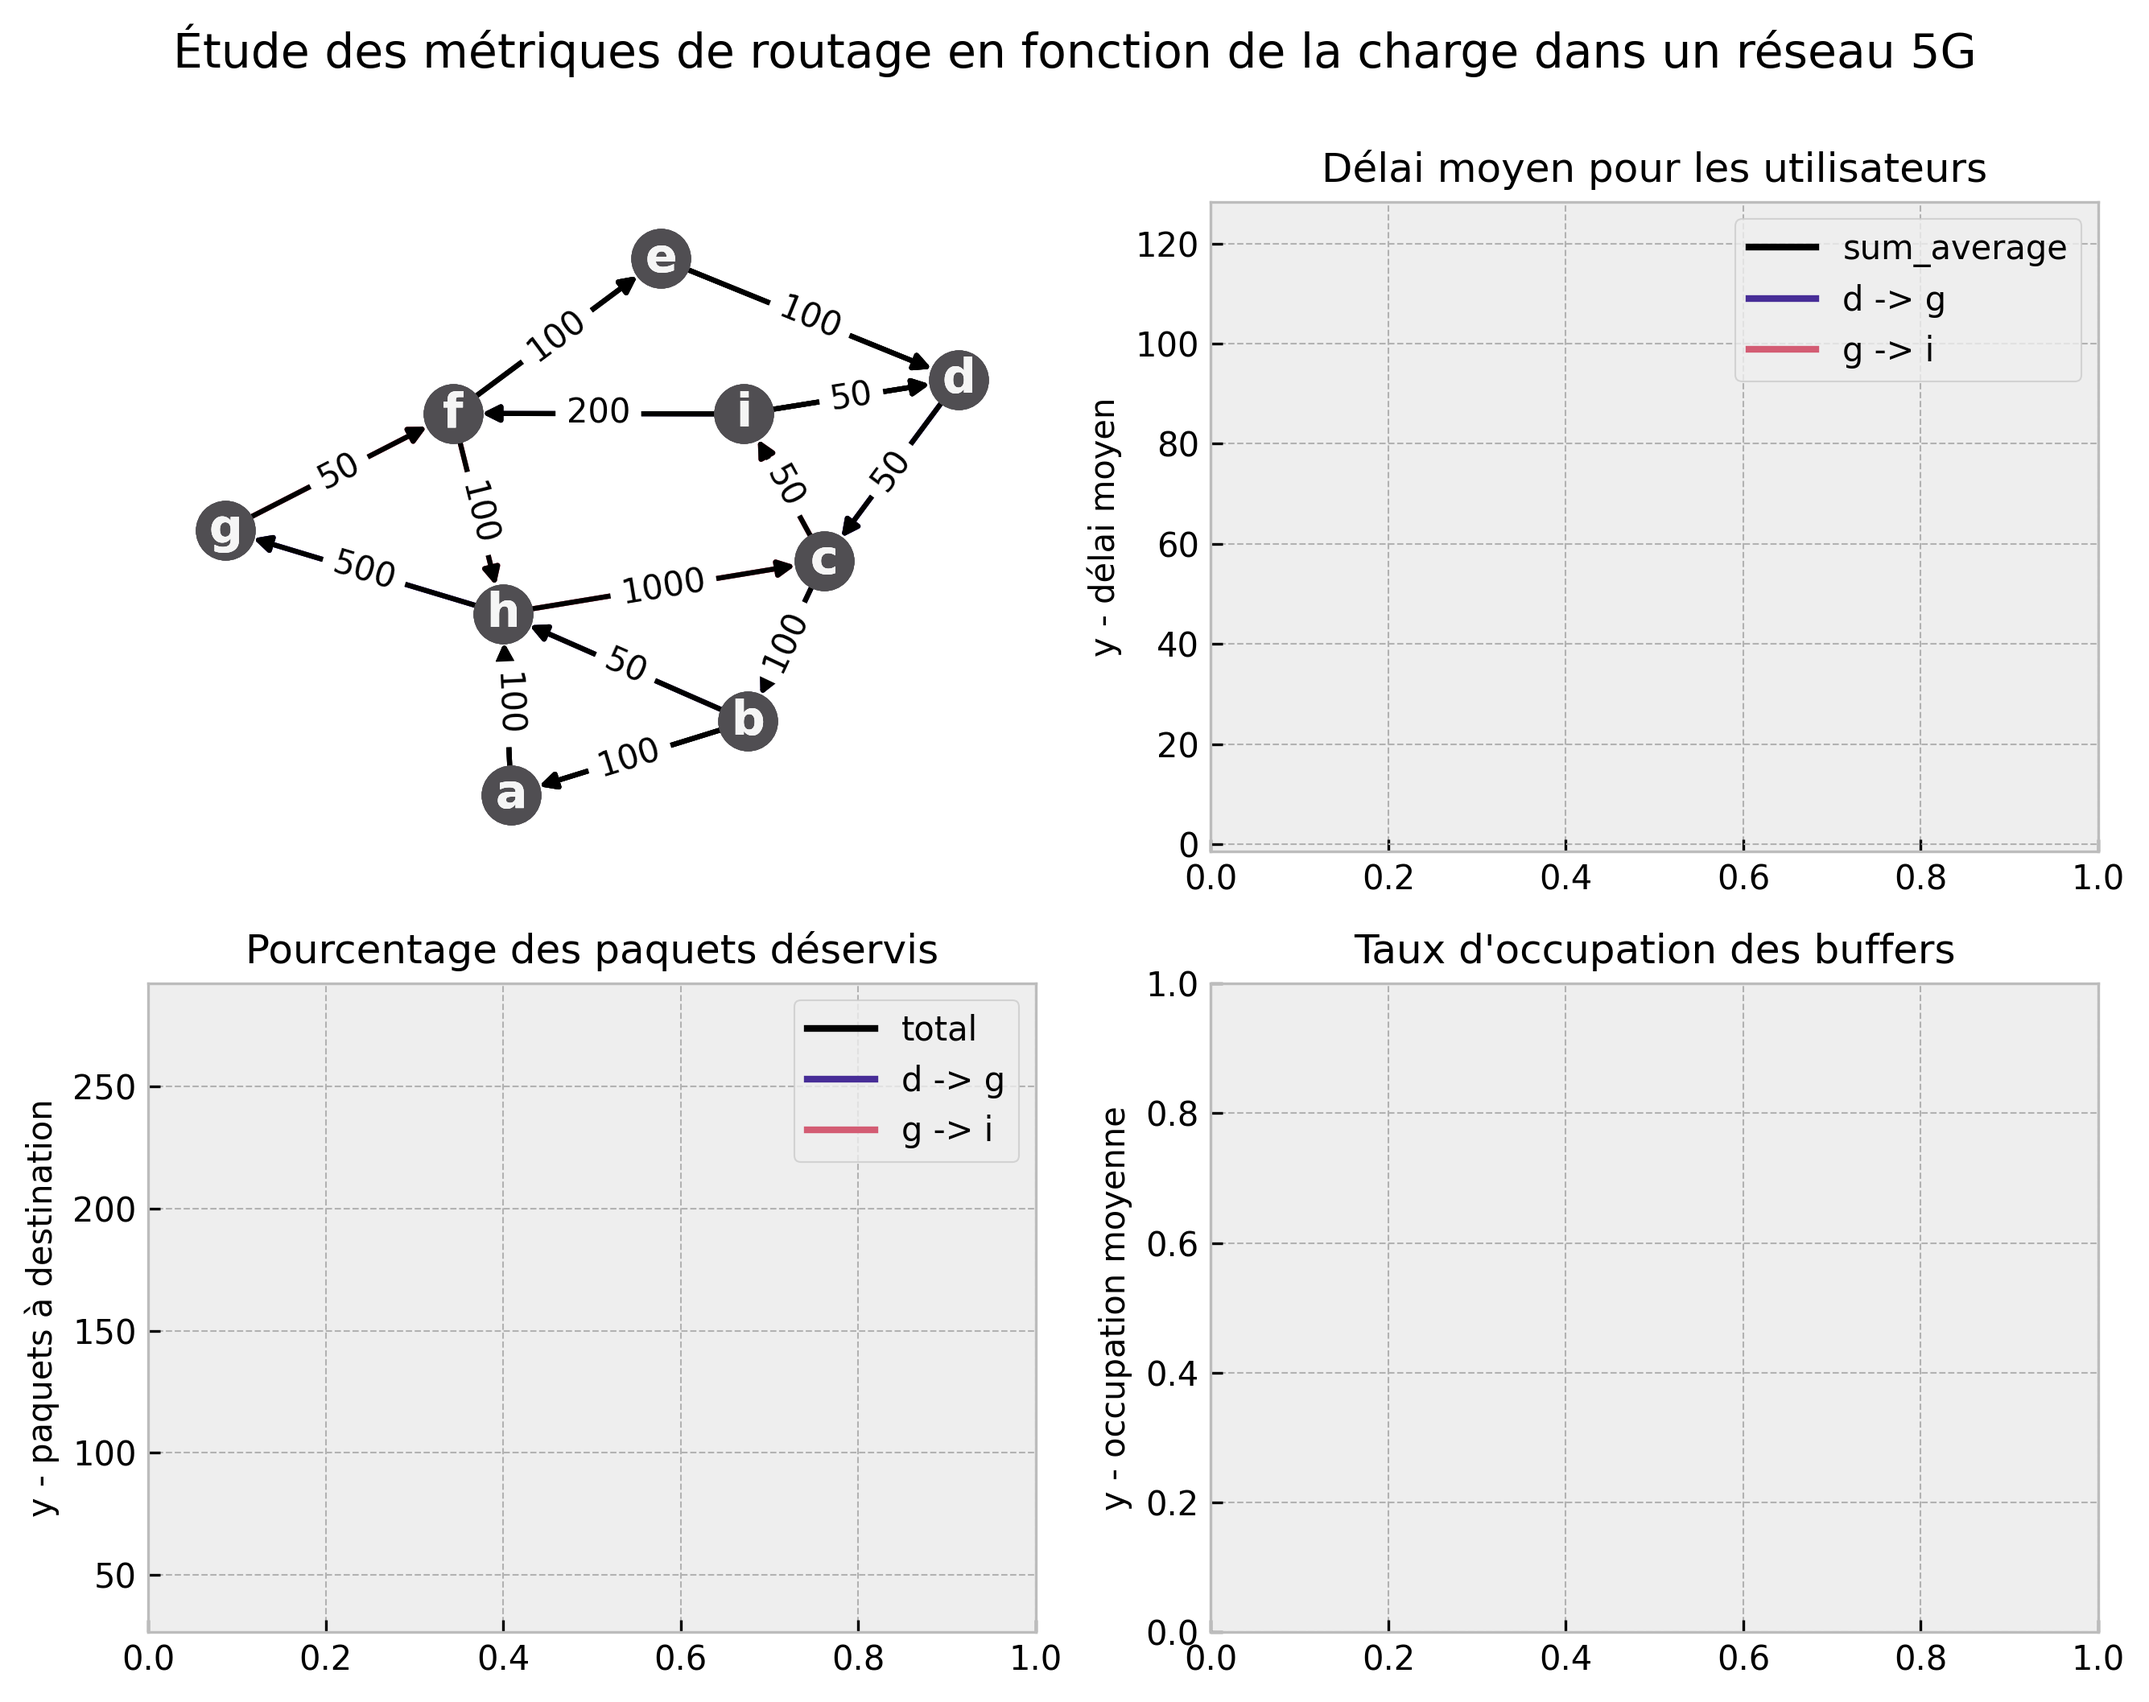
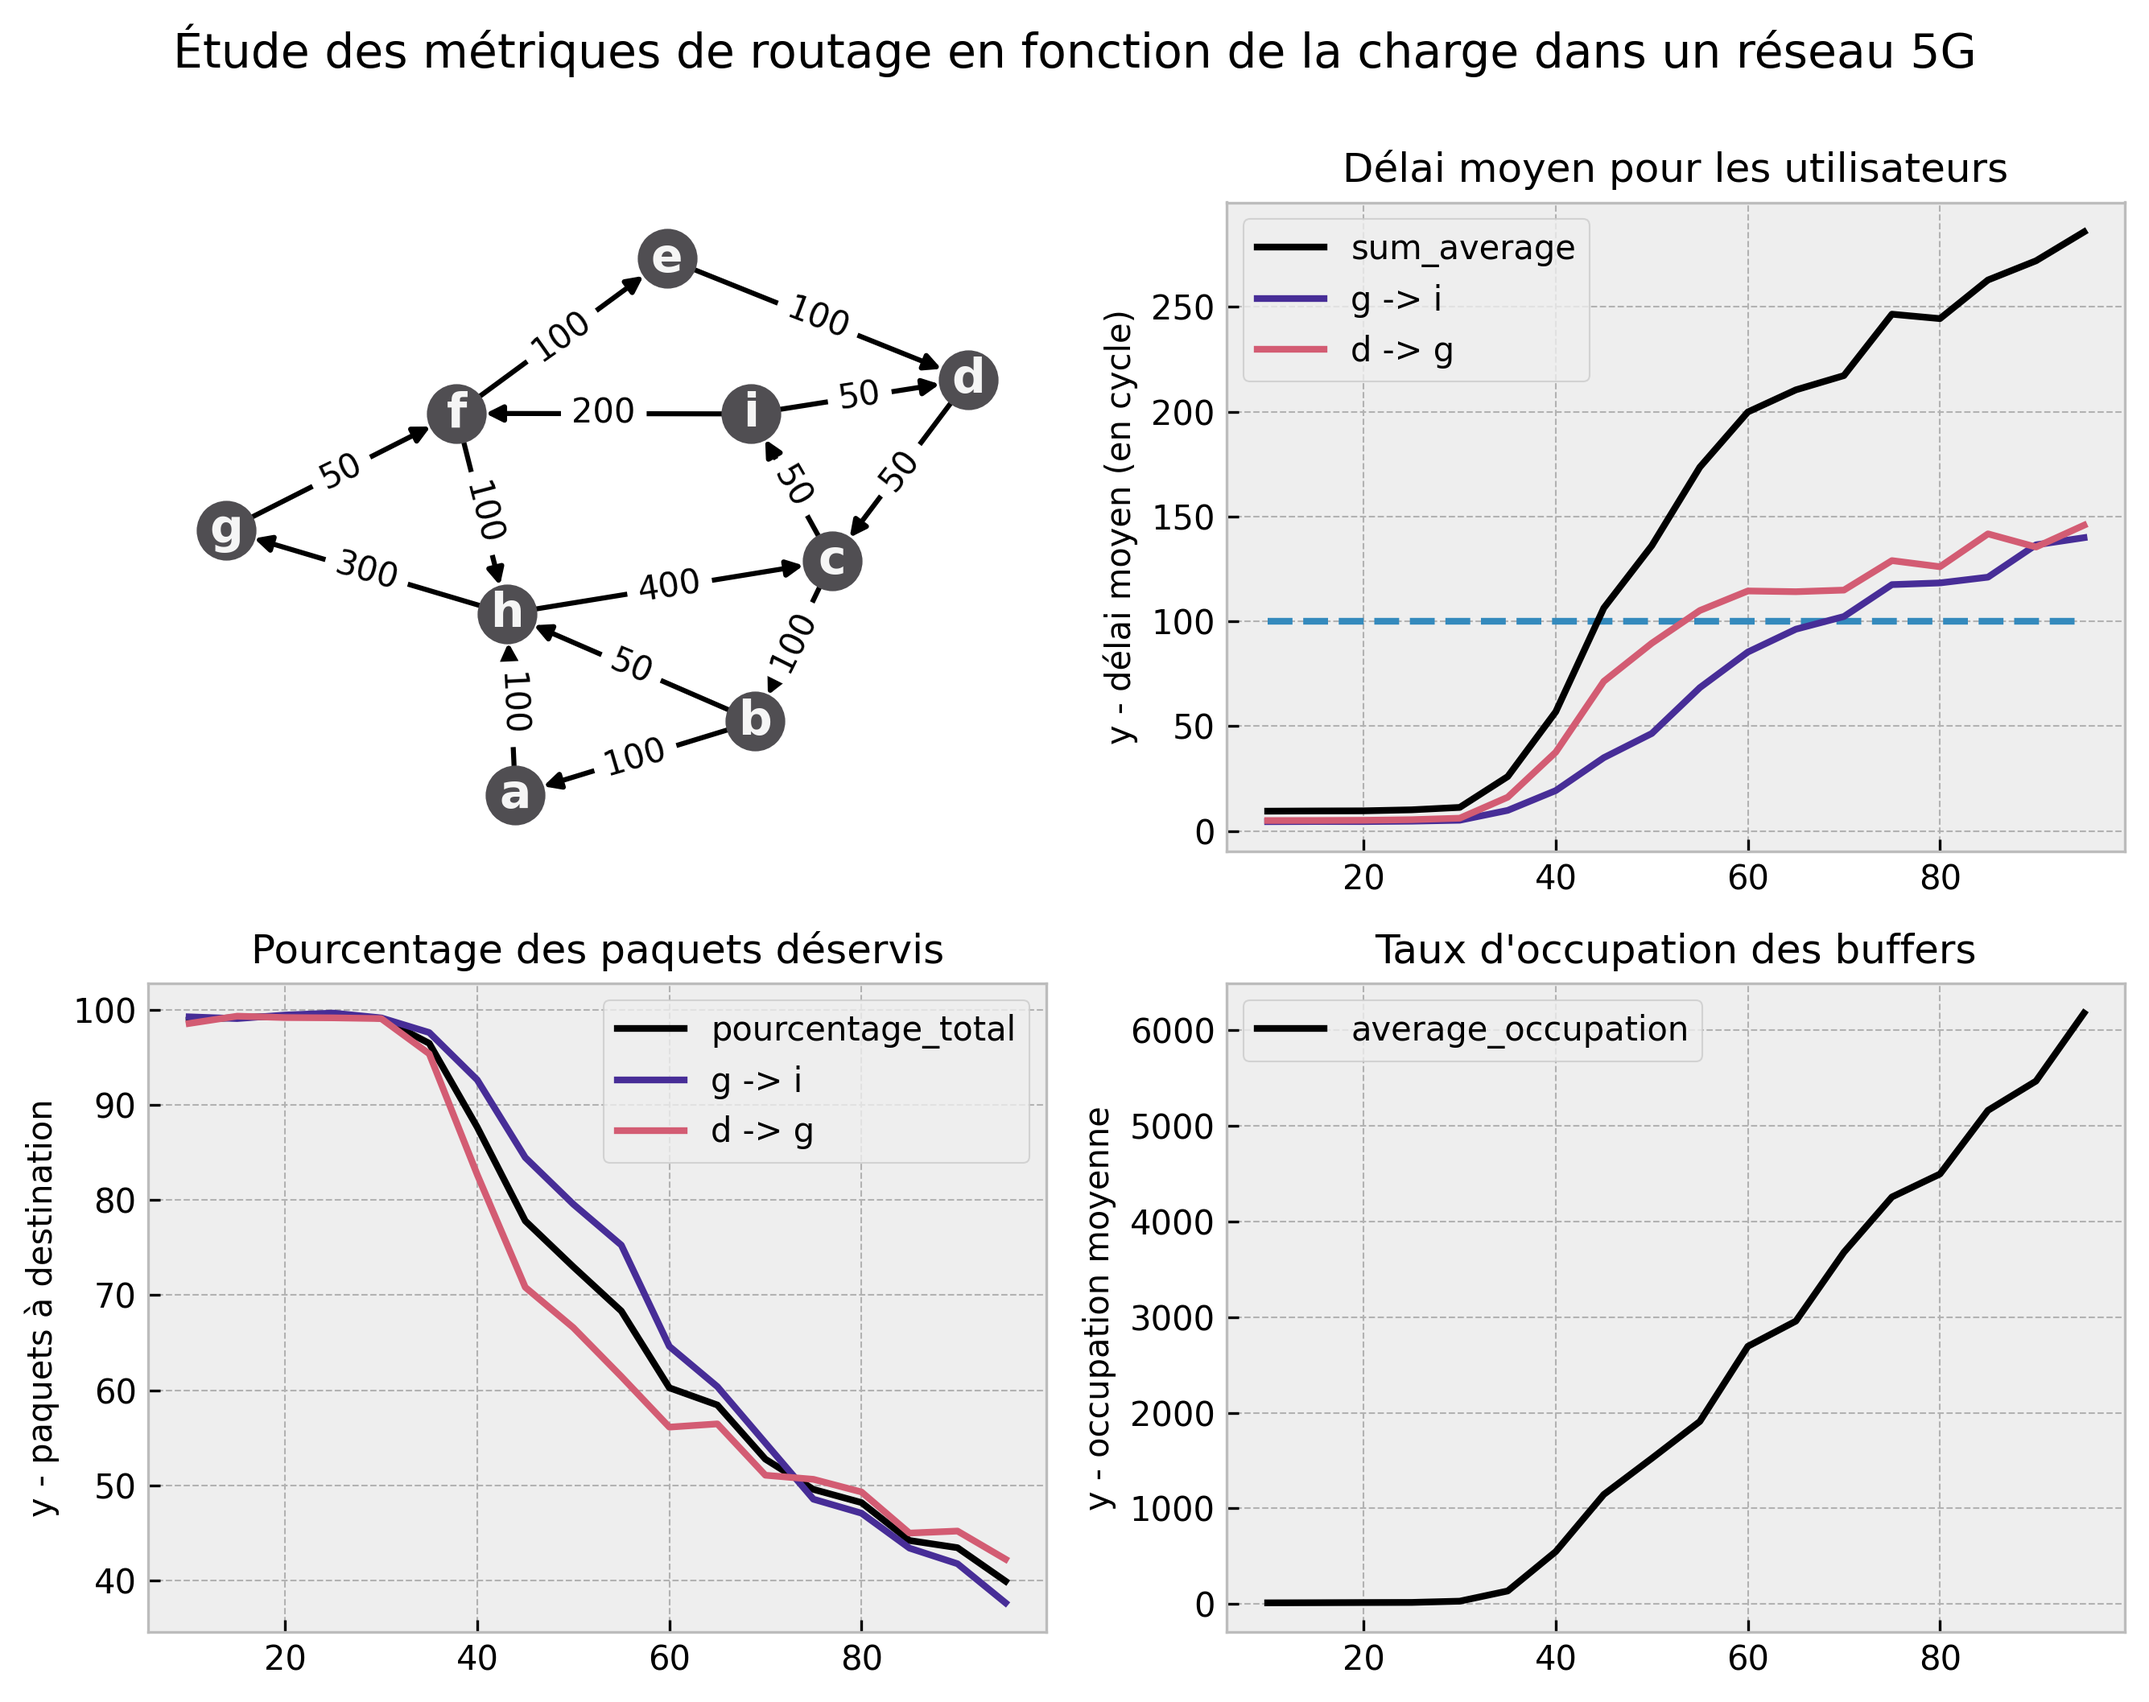
quasi fin de projet

diff --git a/sources/network.py b/sources/network.py
@@ -1,4 +1,3 @@
-import statistics
 import numpy as np
 import pandas as pd
 import cmasher as cmr
@@ -6,6 +5,8 @@ import networkx as nx
 import numpy.random as random
 
 from enum import IntEnum, unique
+
+from sklearn.metrics import average_precision_score
 
 class Graph():
     def __init__(self, filepath: str):
@@ -107,7 +108,7 @@ class Network(Graph):
         self.__setup(self.Protocol(protocol)) 
         
         # creates objects to store the data for statistics
-        self.statistics_data = { e:{ 'package_arrived': 0, 'package_sent': 0, 'total_delay': 0 } for e in self._emitters }
+        self._statistics_tmp = { e:{ 'package_arrived': 0, 'package_sent': 0, 'total_delay': 0 } for e in self._emitters }
         self.statistics_plots = []
         
     def get_nodes(self):
@@ -119,30 +120,36 @@ class Network(Graph):
         return self._nodes[:]
     
     def clear(self):
-        plot_y = { 'average_delay': {}, 'pourcentage_destination': {} }
+        # retrives the data from the simulation to be cleared
+        plot_y = { 'average_delay': {}, 'pourcentage_destination': {}, 'buffer_occupation': {} }
         
+        # 1. average delay
         plot_y['average_delay']['sum_average'] = 0
-        for k, v in self.statistics_data.items():
+        for k, v in self._statistics_tmp.items():
             delay = 0
             if v['package_arrived'] > 0:
                 delay = v['total_delay'] / v['package_arrived']
             plot_y['average_delay'][k] = delay
             plot_y['average_delay']['sum_average'] += delay
-                
+        
+        # 2. pourcentage of packages sent to the destination
         arrived, sent = 0, 0
-        plot_y['pourcentage_destination']['total'] = 0
-        for k, v in self.statistics_data.items():
+        plot_y['pourcentage_destination']['pourcentage_total'] = 0
+        for k, v in self._statistics_tmp.items():
             arrived += v['package_arrived']
             sent += v['package_sent']
             plot_y['pourcentage_destination'][k] = 0
-            if v['package_arrived'] > 0:
-                plot_y['pourcentage_destination'][k] = v['package_sent'] / v['package_arrived'] * 100
+            if v['package_sent'] > 0:
+                plot_y['pourcentage_destination'][k] = v['package_arrived'] / v['package_sent'] * 100
         if sent > 0:
-            plot_y['pourcentage_destination']['total'] = arrived / sent * 100
+            plot_y['pourcentage_destination']['pourcentage_total'] = arrived / sent * 100
+
+        # 3. average buffer occupation
+        plot_y['buffer_occupation']['average_occupation'] = np.mean([ len(node.packages_out) for node in self._nodes.values() ])
 
         # refresh the data for the next simulation
-        for k in self.statistics_data:
-            self.statistics_data[k] = dict.fromkeys(self.statistics_data[k], 0)
+        for k in self._statistics_tmp:
+            self._statistics_tmp[k] = dict.fromkeys(self._statistics_tmp[k], 0)
 
         # store the data for the rendering
         self.statistics_plots.append(plot_y)
@@ -184,15 +191,15 @@ class Network(Graph):
         for (u, v) in self._emitters:
             packages = [ p | { 'from': u, 'to': v, 'sent': tick } for p in self.generate_packages(100, load) ]
             self._nodes[u].set_packages_out(packages)
-            self.statistics_data[(u, v)]['package_sent'] += len(packages)
+            self._statistics_tmp[(u, v)]['package_sent'] += len(packages)
         
         # moves the packages according to the path given by the routing algorithm
-        for (node_name, node) in self._nodes.items():
+        for name, node in self._nodes.items():
             nexts = {}
             for (src, dst) in set([ (p['from'], p['to']) for p in node.packages_out ]):
-                nexts[(src, dst)] = self.__process_next(src, dst, node_name)
+                nexts[(src, dst)] = self.__process_next(src, dst, name)
             
-            throughput_nexts = { next: self._graph[node_name][next]['current_throughput'] for next in set(nexts.values()) }
+            throughput_nexts = { next: self._graph[name][next]['current_throughput'] for next in set(nexts.values()) }
             
             while node.packages_out and throughput_nexts[nexts[(node.packages_out[-1]['from'], node.packages_out[-1]['to'])]] > 0:
                 package = node.packages_out.pop(0)
@@ -200,16 +207,16 @@ class Network(Graph):
                 self._nodes[nexts[(package['from'], package['to'])]].set_packages_in([package])
         
         # moves the packages from 'reception' to 'ready_to_send' queue and retrieves the data from packages arrived before deletion
-        for node in self._nodes.values():
+        for name, node in self._nodes.items():
             for package in node.packages_in:
-                if package['to'] == node.name:
-                    stats = self.statistics_data[(package['from'], package['to'])]
+                if package['to'] == name:
+                    stats = self._statistics_tmp[(package['from'], package['to'])]
                     stats['total_delay'] += tick - package['sent'] + 1
                     stats['package_arrived'] += 1
                 else:
                     node.packages_out.append(package)
             node.packages_in = []
-                 
+            
     def generate_packages(self, package_size: int, package_sample: int):
         """ Generates randomized packages from the specified parameters.
 
@@ -292,6 +299,37 @@ class Network(Graph):
 
         return result
     
+    # def __hybride_solution(self, src, dst):
+    #     paths = sorted(nx.all_simple_paths(self._graph, src, dst), key=len)
+    #     ranks = [0] * len(paths)
+        
+    #     l1 = paths[:]
+    #     l2 = paths[:]
+    #     for i in range(len(ranks)):
+    #         p1 = self.__lsor(src, dst)
+    #         p2 = self.__path_max_bottleneck(src, dst)
+            
+    #         if p1 == p2:
+    #             return p1
+            
+    #         ranks[l1.index(p1)] += i
+    #         l1.remove(p1)
+            
+    #         ranks[l2.index(p2)] += i
+    #         l2.remove(p2)
+            
+            
+    #     max, result = 0.0, None
+
+    #     for path in sorted(nx.all_simple_paths(self._graph, src, dst), key=len):
+    #         bottle_neck = min( self._graph[path[n]][path[n + 1]]['average_throughput'] for n in range(len(path) - 1) )
+    #         if bottle_neck > max:
+    #             max = bottle_neck 
+    #             result = path
+                
+    #     return result
+    
+        
     def __setup(self, protocol):
         self.protocol = protocol
         func = {
@@ -318,17 +356,6 @@ class Network(Graph):
             
         return paths[(src, dst)][paths[(src, dst)].index(node_name) + 1]
     
-    # def le_meilleur_debit_median(src, dst):
-        #     paths = nx.all_simple_paths(self._graph, src, dst)
-        #     max, result = 0.0, None
-            
-        #     for path in paths:
-        #         med = statistics.median([ neigbour['average_throughput'] for neigbour in path ])
-        #         if med > max:
-        #             max = med 
-        #             result = path
-                    
-        #     return result
-        
-        #debit moyen
+        #TODO idée
+        #debit median
         #plus de voisins

diff --git a/sources/main.py b/sources/main.py
@@ -1,8 +1,8 @@
 import sys
-from turtle import right
 
 from engine import Engine
 from network import Network
+import matplotlib.pyplot as plt
 
 class Simulator(Engine):
     def __init__(self, scenario: str, kwargs={}):
@@ -11,53 +11,52 @@ class Simulator(Engine):
         self._networks = [ Network(in_format(scenario), protocol) for protocol in list(map(int, Network.Protocol)) ]
         
     def render(self):
-        self._fig.suptitle('Étude des métriques de routage en fonction de la charge dans un réseau 5G', fontsize=14, y=1)
-        self._fig.subplots_adjust(bottom=0.3, wspace=0.5, hspace=0.1) # adjusts the subplot layout parameters
-        
-        axes = self._fig.axes
-        axes[0].set_axis_off() # turns the x- and y-axis off
-        axes[1].get_shared_x_axes().join(*axes[1:]) # share x between subplots
-        
         x = [ i for i in range(self._load['start'], self._load['stop'], self._load['step']) ]
         
-        labels = [ 'average_delay', 'pourcentage_destination' ] #TODO 'buffer_occupation'
+        labels = [ 'average_delay', 'pourcentage_destination', 'buffer_occupation' ]
         for network in self._networks:
+            self._fig, _ = plt.subplots(2, 2, layout='tight', figsize=(9, 7))
+            
+            self._fig.suptitle('Étude des métriques de routage en fonction de la charge dans un réseau 5G', fontsize=14, y=1)
+            self._fig.subplots_adjust(bottom=0.3, wspace=0.5, hspace=0.1) # adjusts the subplot layout parameters
+            
+            axes = self._fig.axes
+            axes[0].set_axis_off() # turns the x- and y-axis off
+            axes[1].get_shared_x_axes().join(*axes[1:]) # share x between subplots
+        
             cm = network.render(axes[0]) # renders the network in matplotlib
             
-            axes[1].set_title("Délai moyen pour les utilisateurs", fontsize=12) #TODO ligne de satisfactiion à 100ms pointilé
-            axes[1].set_ylabel('y - délai moyen', fontsize=10)
+            axes[1].set_title('Délai moyen pour les utilisateurs', fontsize=12)
+            axes[1].set_ylabel('y - délai moyen (en cycle)', fontsize=10)
             axes[1].plot(x, [100] * len(x), linestyle='dashed')
             
-            axes[2].set_title("Pourcentage des paquets déservis", fontsize=12)
+            axes[2].set_title('Pourcentage des paquets déservis', fontsize=12)
             axes[2].set_ylabel('y - paquets à destination', fontsize=10)
             
-            axes[3].set_title("Taux d'occupation des buffers", fontsize=12)
+            axes[3].set_title('Taux d\'occupation des buffers', fontsize=12)
             axes[3].set_ylabel('y - occupation moyenne', fontsize=10)
         
             for i, axe in enumerate(axes[1:]): 
                 ys = {}
-                
-                if i == 2:#TODO removes le [:1]
-                    break
-                
+                    
                 for statistics in network.statistics_plots:
                     for k, v in statistics[labels[i]].items():
                         if not k in ys:
                             ys[k] = []
                         ys[k].append(v)
-            
-                for i, (k, y) in enumerate(ys.items()):
-                    if type(k) is tuple:
-                        k = k[0] + ' -> ' + k[1]
-                    axe.plot(x, y, label=k, color=cm(i / len(ys))) 
+
+                for j, (k, y) in enumerate(ys.items()):
+                    if len(ys.items()) > 2 or type(k) is tuple or i == 2:
+                        if type(k) is tuple:
+                            k = k[0] + ' -> ' + k[1]
+                        axe.plot(x, y, label=k, color=cm(j / len(ys)))
 
                 axe.grid(True)
                 axe.legend(loc='best')
-                
+            
             self._fig.savefig(out_format(self._scenario, network.protocol.name), bbox_inches='tight', dpi=300)
-            for axe in axes[1:]:
-                axe.cla()
-    
+            self._fig.clf() # clears the figure for the next rendering
+            
     def update(self, tick: int, load: int):
         """ Updates the simulation.
 

diff --git a/sources/engine.py b/sources/engine.py
@@ -25,7 +25,6 @@ class Engine(Launchable):
     def start(self):
         plt.style.use('bmh')
         
-        self._fig, _ = plt.subplots(2, 2, layout='tight', figsize=(9, 7))
         self._load = { 'start': 10, 'stop': 100, 'step': 5 }
         
         for load in range(self._load['start'], self._load['stop'], self._load['step']):
@@ -40,11 +39,10 @@ class Engine(Launchable):
             # prints the progress bar up to 95%
             progress = load / self._load['stop']
             stdout.write("\rProgress: [{0:50s}] {1:.1f}% Complete".format('#' * int(progress * 50), progress * 100))
-            #stdout.flush()
+            stdout.flush()
         
         # renders the simulation and statistics
         self.render()
-        plt.subplot_tool()
 
         # prints the progress bar at 100%
         stdout.write("\rProgress: [{0:50s}] 100.0% Complete".format('#' * int(50)))
@@ -63,5 +61,5 @@ class Engine(Launchable):
         pass
     
     def stop(self):
-        plt.close(self._fig)
+        plt.close('all')
         
